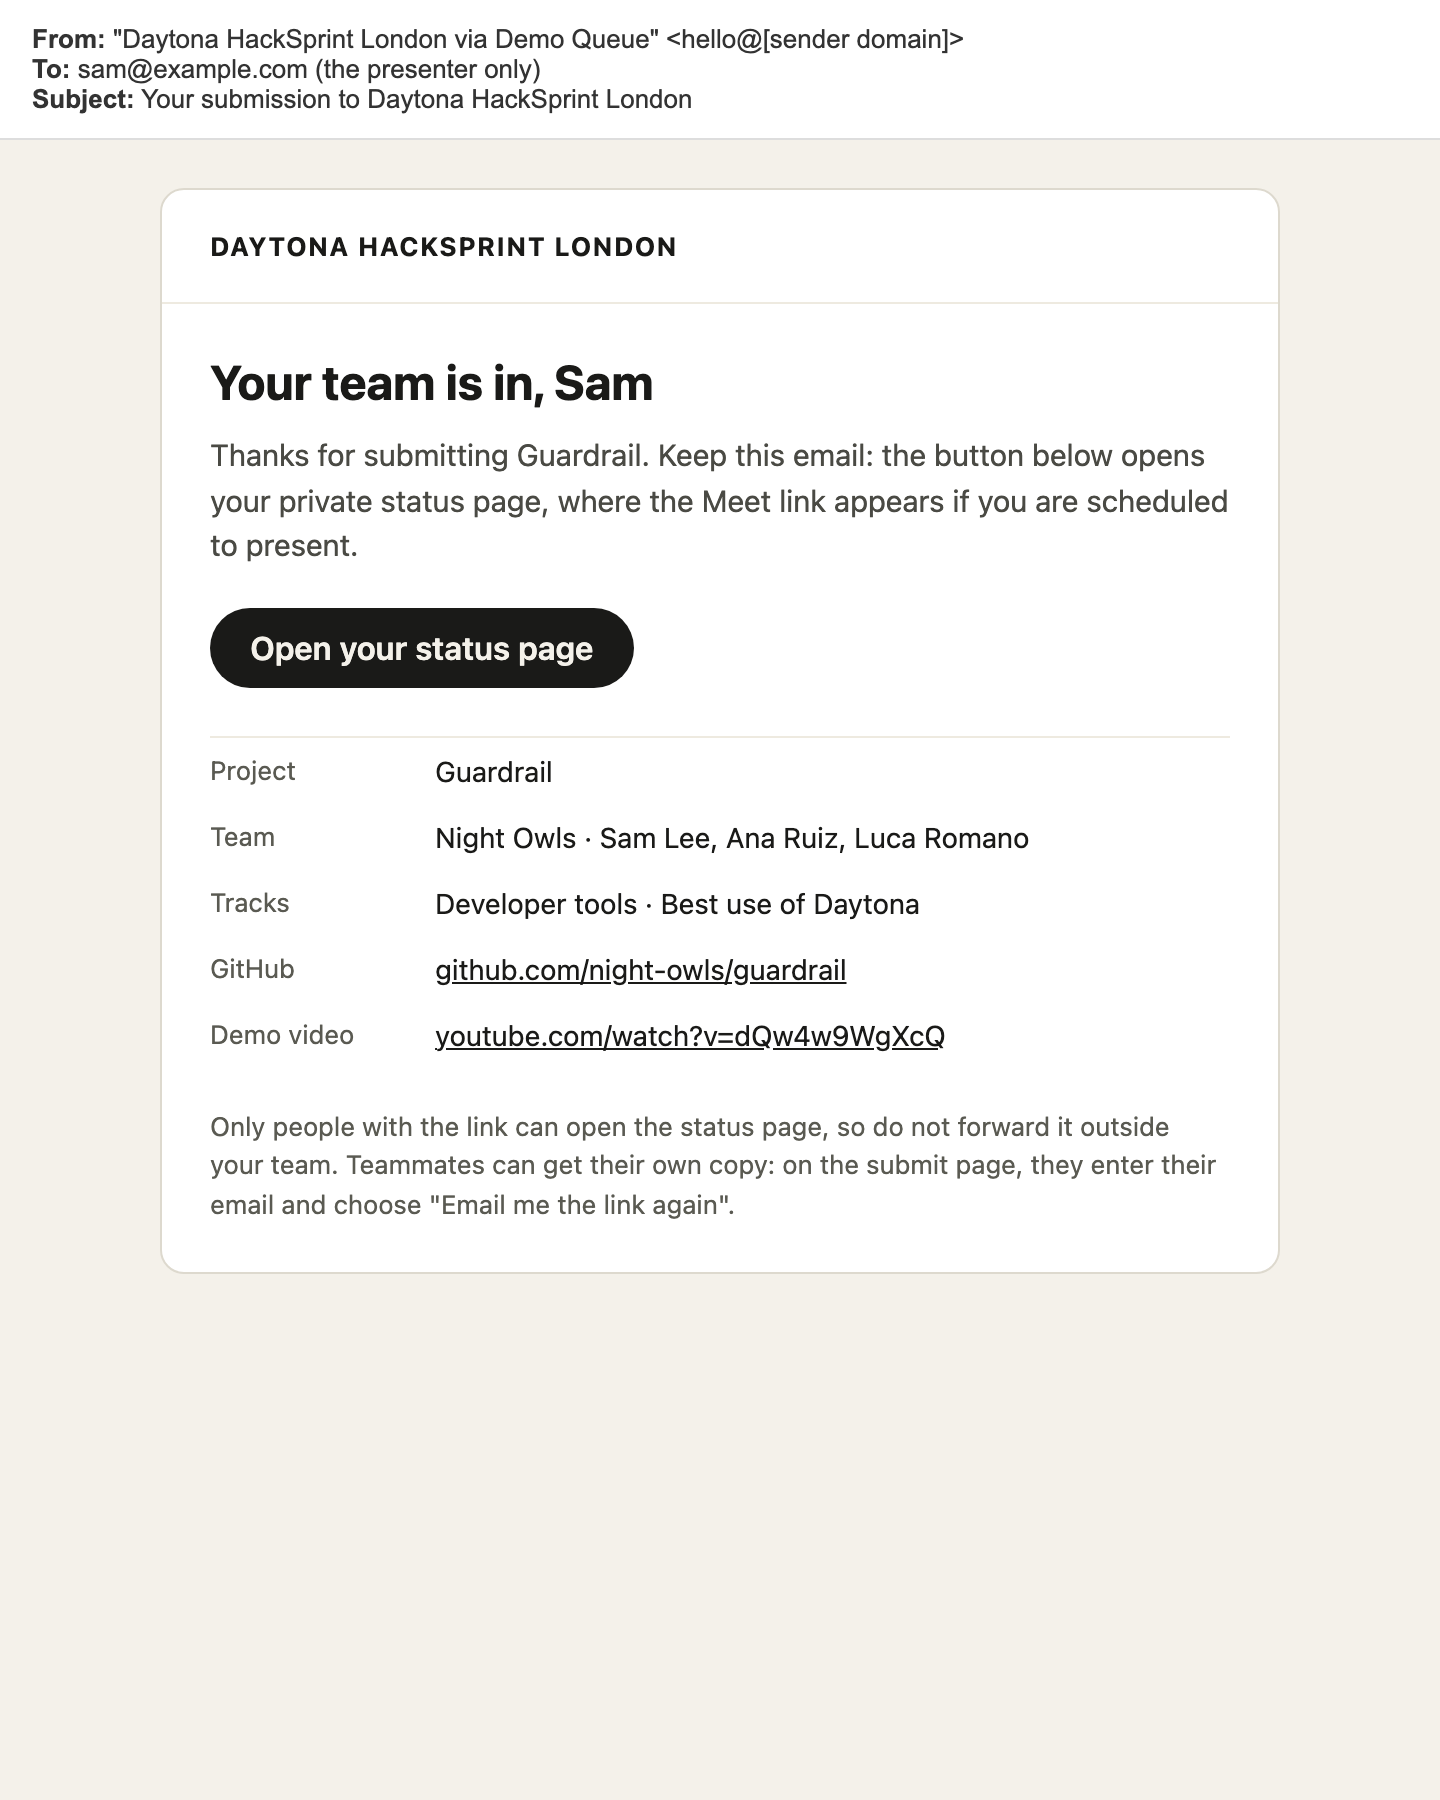
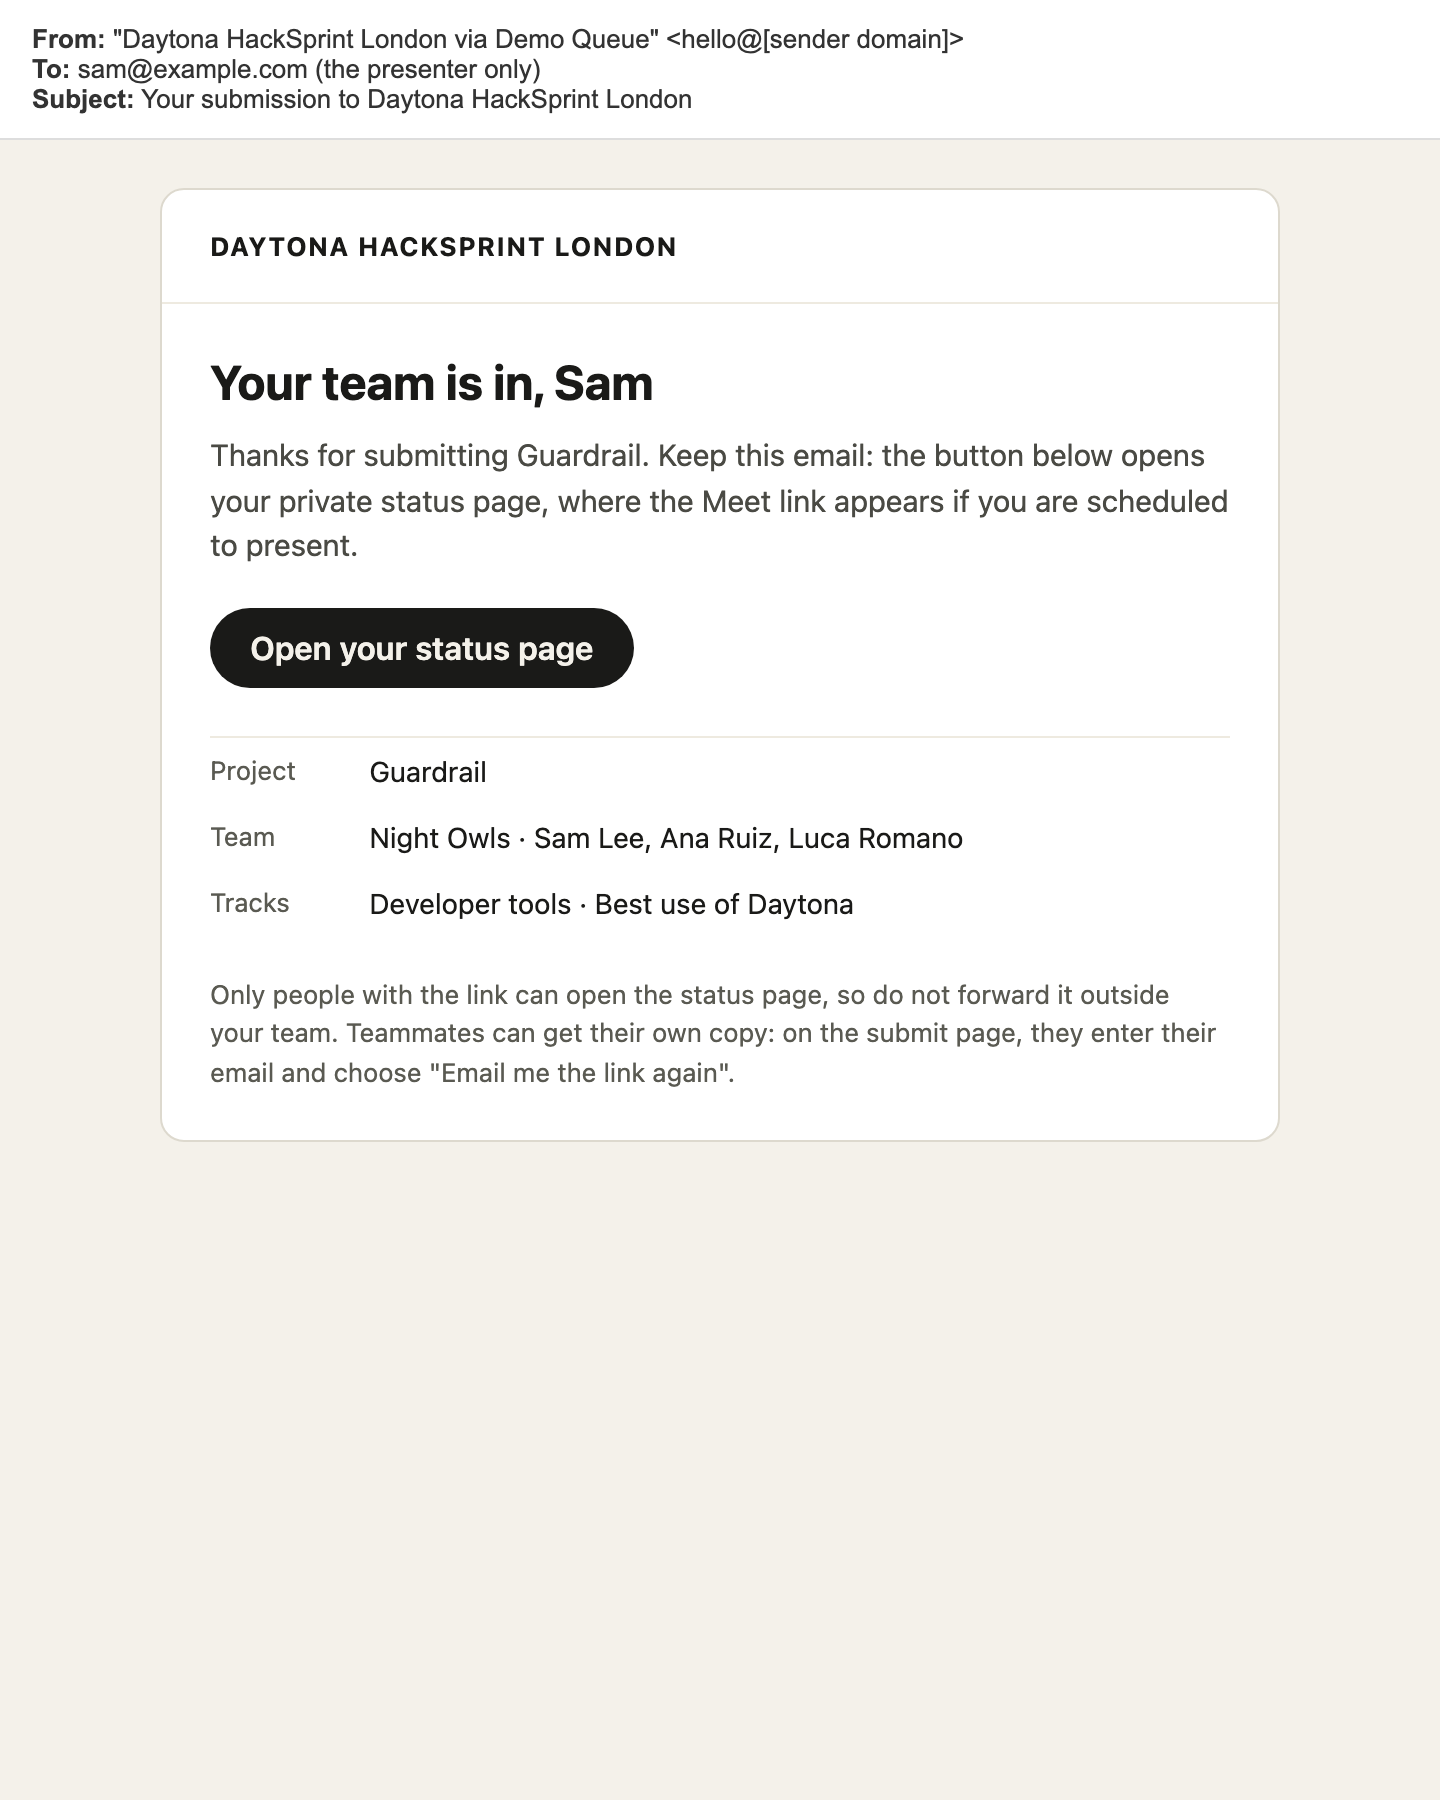
fix: send only our own link in the confirmation, and forget after a week
Anyone can type someone else's email into the form, so the confirmation
must not carry links a submitter chose. It keeps the event name, the
project and team as plain text and the status link; the GitHub and video
links stay on the status page.

The browser still remembers what it submitted so reopening the link shows
it, but only for 7 days (events store no end time). "Not you? Start a new
submission" still forgets it at once.

Requested-by: Demian (security review: confirmation links and stored token)

Changed region(s): [[0.125, 0.4044, 0.8438, 0.6844]]

diff --git a/lib/submission-email.ts b/lib/submission-email.ts
@@ -1,5 +1,9 @@
 // The confirmation email a team gets after submitting, and again on request.
 // Pure functions so the copy and the escaping can be tested without Convex.
+//
+// Anyone can type someone else's email into the form, so the only link in
+// this email is our own status link. What participants typed is plain text,
+// and their GitHub and video links stay on the status page.
 
 export type SubmissionEmailInput = {
   reason: "submitted" | "resend";
@@ -10,8 +14,6 @@ export type SubmissionEmailInput = {
   teamName?: string;
   people: string[];
   tracks: string[];
-  githubUrl?: string;
-  videoUrl?: string;
   statusUrl: string;
 };
 
@@ -60,15 +62,13 @@ export function buildSubmissionEmail(input: SubmissionEmailInput): SubmissionEma
       : 'Only people with the link can open the status page, so do not forward it outside your team. Teammates can get their own copy: on the submit page, they enter their email and choose "Email me the link again".'
     : "Only people with the link can open the status page, so do not forward it.";
 
-  const rows: Array<[string, string, string?]> = [[isTeam ? "Project" : "Demo", title]];
+  const rows: Array<[string, string]> = [[isTeam ? "Project" : "Demo", title]];
   if (isTeam) {
     const people = input.people.map(oneLine).filter(Boolean).join(", ");
     const team = [oneLine(input.teamName ?? ""), people].filter(Boolean).join(" · ");
     if (team) rows.push(["Team", team]);
   }
   rows.push(["Tracks", input.tracks.length ? input.tracks.map(oneLine).join(" · ") : "None"]);
-  if (input.githubUrl) rows.push(["GitHub", displayUrl(input.githubUrl), input.githubUrl]);
-  if (input.videoUrl) rows.push(["Demo video", displayUrl(input.videoUrl), input.videoUrl]);
 
   const text = [
     heading,
@@ -83,10 +83,7 @@ export function buildSubmissionEmail(input: SubmissionEmailInput): SubmissionEma
   ].join("\n");
 
   const rowHtml = rows
-    .map(([label, value, href]) => {
-      const cell = href && isHttpUrl(href) ? `<a href="${escapeHtml(href)}" style="color:#1a1a18">${escapeHtml(value)}</a>` : escapeHtml(value);
-      return `<tr><td style="padding:8px 12px 8px 0;color:#5a5a52;font-size:13px;vertical-align:top;white-space:nowrap">${escapeHtml(label)}</td><td style="padding:8px 0;font-size:14px;color:#1a1a18">${cell}</td></tr>`;
-    })
+    .map(([label, value]) => `<tr><td style="padding:8px 12px 8px 0;color:#5a5a52;font-size:13px;vertical-align:top;white-space:nowrap">${escapeHtml(label)}</td><td style="padding:8px 0;font-size:14px;color:#1a1a18">${escapeHtml(value)}</td></tr>`)
     .join("");
 
   const html = `<!doctype html>
@@ -105,17 +102,4 @@ export function buildSubmissionEmail(input: SubmissionEmailInput): SubmissionEma
 </body></html>`;
 
   return { subject, html, text };
-}
-
-function isHttpUrl(value: string) {
-  try {
-    const url = new URL(value);
-    return url.protocol === "https:" || url.protocol === "http:";
-  } catch {
-    return false;
-  }
-}
-
-function displayUrl(value: string) {
-  return value.replace(/^https?:\/\/(www\.)?/i, "").replace(/\/$/, "");
 }

diff --git a/lib/remembered-submission.ts b/lib/remembered-submission.ts
@@ -1,0 +1,46 @@
+// Lets a browser that submitted see what it sent when the link is reopened.
+// The token stays only for a week: events store no end time, so a fixed
+// window covers the event and a little after. "Not you? Start a new
+// submission" forgets it at once, for shared or borrowed devices.
+
+const STORAGE_PREFIX = "demo-queue:submitted:";
+export const REMEMBER_FOR_MS = 7 * 24 * 60 * 60 * 1000;
+
+type Remembered = { token: string; expiresAt: number };
+
+function isRemembered(value: unknown): value is Remembered {
+  return typeof value === "object" && value !== null &&
+    typeof (value as Remembered).token === "string" && typeof (value as Remembered).expiresAt === "number";
+}
+
+/** The participant token this browser submitted with, if it is remembered and not expired. */
+export function readRememberedSubmission(slug: string, now = Date.now()) {
+  try {
+    const raw = window.localStorage.getItem(STORAGE_PREFIX + slug);
+    if (!raw) return null;
+    let value: unknown = null;
+    try { value = JSON.parse(raw); } catch { /* an unreadable value is dropped below */ }
+    if (isRemembered(value) && value.expiresAt > now) return value.token;
+    window.localStorage.removeItem(STORAGE_PREFIX + slug);
+    return null;
+  } catch {
+    return null;
+  }
+}
+
+export function rememberSubmission(slug: string, participantToken: string, now = Date.now()) {
+  try {
+    const value: Remembered = { token: participantToken, expiresAt: now + REMEMBER_FOR_MS };
+    window.localStorage.setItem(STORAGE_PREFIX + slug, JSON.stringify(value));
+  } catch {
+    // Private windows and blocked storage just skip the locked view.
+  }
+}
+
+export function forgetSubmission(slug: string) {
+  try {
+    window.localStorage.removeItem(STORAGE_PREFIX + slug);
+  } catch {
+    // Nothing to forget.
+  }
+}

diff --git a/app/e/[slug]/SubmittedView.tsx b/app/e/[slug]/SubmittedView.tsx
@@ -8,33 +8,6 @@ import { socialUrl, type SocialKind } from "@/lib/social";
 
 export type SubmittedViewData = NonNullable<FunctionReturnType<typeof api.events.getSubmittedView>>;
 
-const STORAGE_PREFIX = "demo-queue:submitted:";
-
-/** The participant token this browser submitted with, if it remembers one. */
-export function readRememberedSubmission(slug: string) {
-  try {
-    return window.localStorage.getItem(STORAGE_PREFIX + slug);
-  } catch {
-    return null;
-  }
-}
-
-export function rememberSubmission(slug: string, participantToken: string) {
-  try {
-    window.localStorage.setItem(STORAGE_PREFIX + slug, participantToken);
-  } catch {
-    // Private windows and blocked storage just skip the locked view.
-  }
-}
-
-export function forgetSubmission(slug: string) {
-  try {
-    window.localStorage.removeItem(STORAGE_PREFIX + slug);
-  } catch {
-    // Nothing to forget.
-  }
-}
-
 const submittedAtFormat = new Intl.DateTimeFormat("en-GB", {
   day: "numeric",
   month: "short",

diff --git a/app/e/[slug]/ClientPage.tsx b/app/e/[slug]/ClientPage.tsx
@@ -8,7 +8,8 @@ import type { Id } from "@/convex/_generated/dataModel";
 import { TrackPicker } from "@/components/TrackPicker";
 import { EMAIL_TAKEN_MESSAGE, SubmissionEmailField } from "@/components/SubmissionEmailField";
 import { browserClientId } from "@/lib/client-id";
-import { SubmittedView, forgetSubmission, readRememberedSubmission, rememberSubmission } from "./SubmittedView";
+import { SubmittedView } from "./SubmittedView";
+import { forgetSubmission, readRememberedSubmission, rememberSubmission } from "@/lib/remembered-submission";
 import { LockKeyholeIcon, Plus, Trash2 } from "lucide-react";
 import { useParams, useRouter } from "next/navigation";
 import { Alert, AlertDescription, AlertTitle } from "@/components/ui/alert";

diff --git a/convex/emails.ts b/convex/emails.ts
@@ -110,8 +110,6 @@ export const sendStatusLinkEmail = internalMutation({
       teamName: submission.teamName,
       people: [submission.name, ...members.map((member) => member.name)],
       tracks,
-      githubUrl: submission.githubUrl,
-      videoUrl: submission.videoUrl,
       statusUrl,
     });
     const resend = new Resend(components.resend, { apiKey: config.apiKey, testMode: false });
